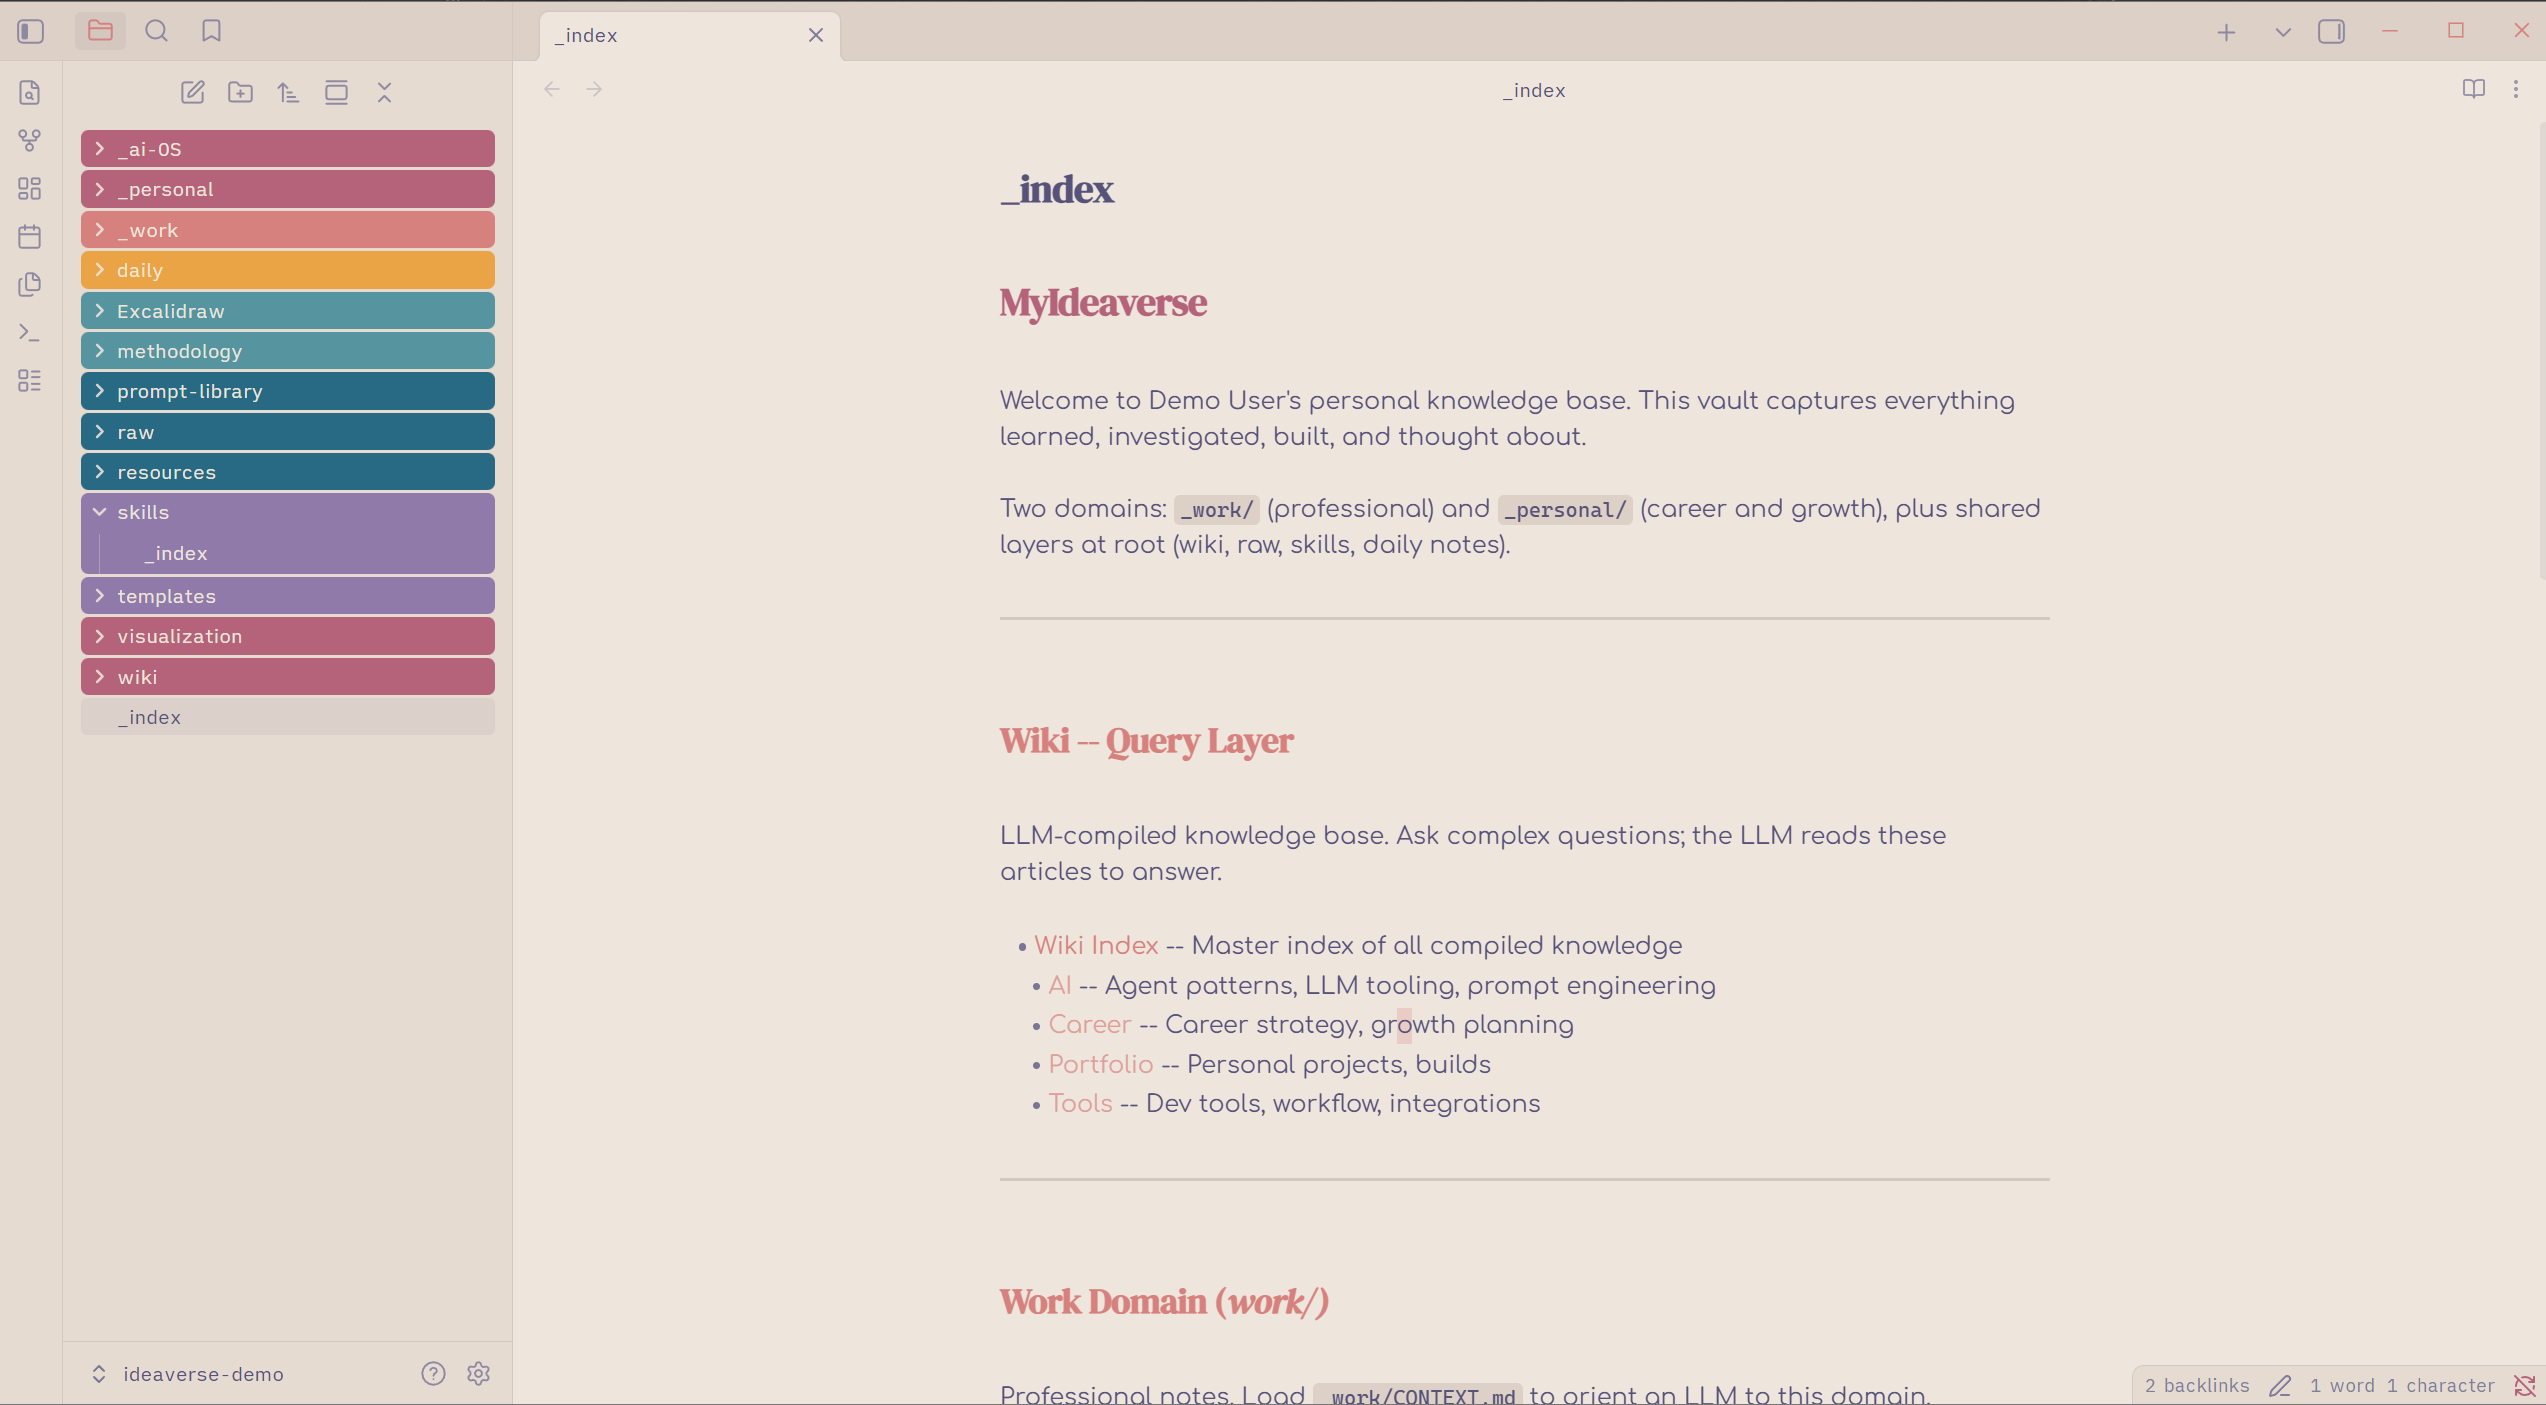
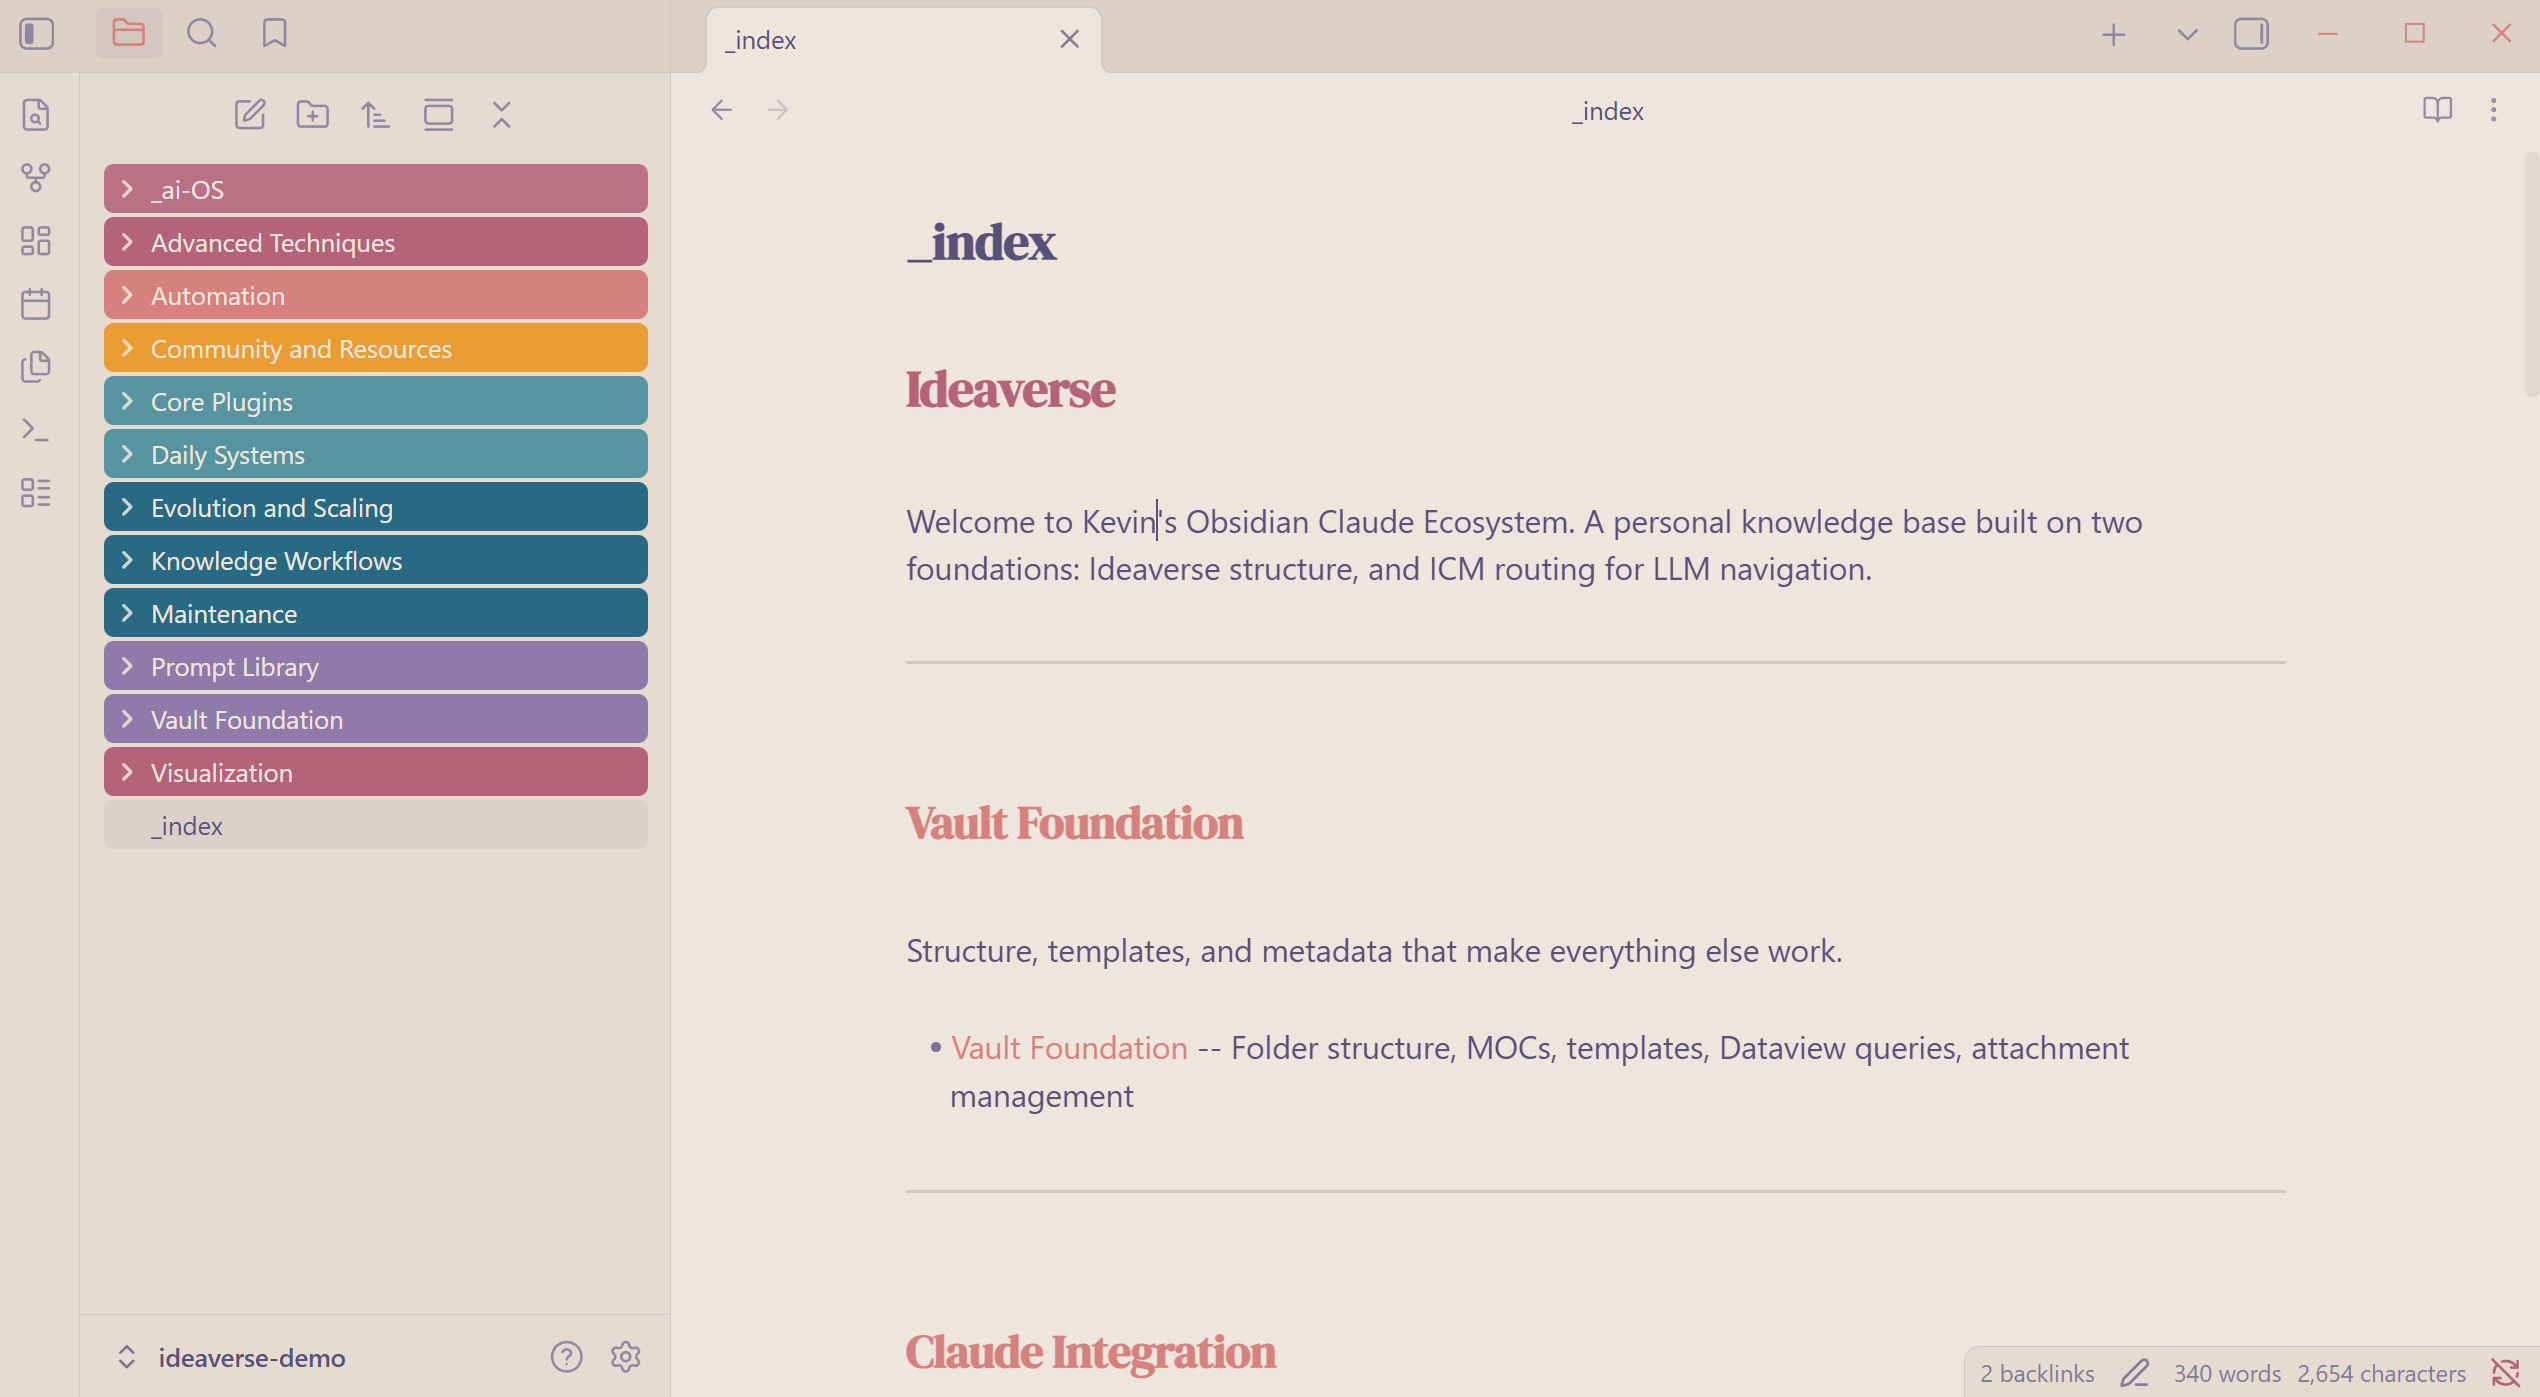
Update README with Kanika ecosystem folder structure
- Replace _work/_personal structure with 12 Kanika ecosystem sections
- Rename Claude Integration to _ai-OS in tree diagram
- Credit Kanika's taxonomy, ICM routing, and Nick Milo's Ideaverse
- Add attribution links to solution bullets and CLI section

new images

diff --git a/README.md b/README.md
@@ -10,9 +10,11 @@ Bootstrap an LLM-ready Obsidian vault with structured routing, identity dossier,
 **The problem:** Every new Obsidian vault starts as an empty folder. You spend hours configuring themes, installing plugins, creating folder structures, and figuring out how to make AI tools understand your vault. Then you do it again on your next machine.
 
 **The solution:** A single command (or Claude skill) that scaffolds a complete vault with:
-- ICM routing files (`_index.md`, `CONTEXT.md`) so any LLM can navigate your vault instantly
+- 12 ecosystem sections based on [Kanika's Obsidian Claude Ecosystem](https://x.com/KanikaBK/status/2043698988613050447) taxonomy
+- ICM routing files (`_index.md`) so any LLM can navigate your vault instantly
 - A canonical identity file (`me.md`) that tells AI tools who you are, how you think, and how to work with you
-- A curated theme + font stack that's readable and visually distinct
+- Nick Milo's Ideaverse concepts: Maps of Content, evergreen notes, literature notes
+- A curated theme + font stack (AnuPpuccin + Comfortaa + DM Serif Display)
 - 11 community plugins pre-configured for knowledge management
 - A daily note workflow organized by date folders
 
@@ -34,6 +36,8 @@ ideaverse-setup ~/Documents/MyIdeaverse/Vault --user "Your Name" --no-fonts
 ```
 
 Then fill in `_ai-OS/me.md` using the [interview guide](docs/interview-guide.md).
+
+The vault structure is based on [Kanika's Obsidian Claude Ecosystem](https://x.com/KanikaBK/status/2043698988613050447), enhanced with [ICM routing](https://github.com/ktncodes/icm-template) and [Nick Milo's Ideaverse](https://www.linkingyourthinking.com/) concepts.
 
 ### Path 2: Claude Code Skill (AI-assisted)
 
@@ -57,47 +61,92 @@ The skill walks you through everything interactively, including a 3-round identi
 
 ```
 YourVault/
-├── _index.md                 # LLM routing -- vault homepage
-├── _ai-OS/
-│   └── me.md                 # Identity dossier (who you are, how to work with you)
-├── _work/                    # Professional domain
-│   ├── CONTEXT.md
-│   ├── bugs/
-│   ├── features/
-│   ├── product/
-│   └── reference/
-├── _personal/                # Growth domain
-│   ├── CONTEXT.md
-│   ├── career/
-│   ├── learning/
-│   └── portfolio/
-├── wiki/                     # LLM-compiled knowledge base
+├── _index.md                         # LLM routing -- vault homepage
+├── _ai-OS/                           # Claude integration + identity
 │   ├── _index.md
-│   ├── ai/
-│   ├── career/
-│   ├── portfolio/
-│   └── tools/
-├── raw/                      # Ingestion queue
+│   ├── me.md                         # Identity dossier (who you are, how to work with you)
+│   ├── Commands/                     # Custom slash commands
+│   ├── Context Loading Strategies/
+│   ├── MCP Tools and Skills/
+│   └── Session Memory/               # Structured logs across conversations
+├── Vault Foundation/                 # Structure, MOCs, templates, metadata
 │   ├── _index.md
-│   ├── web-clips/
-│   ├── youtube/
-│   └── papers/
-├── daily/                    # Date-folder daily notes
-│   └── _index.md
-├── skills/                   # Claude skill vault backups
-│   └── _index.md
-├── methodology/
-├── prompt-library/
-├── templates/
-│   └── daily-note-template.md
-├── resources/
-├── visualization/
-├── Excalidraw/
+│   ├── Folder Structure/
+│   ├── MOCs and Hub Notes/           # Maps of Content (Nick Milo pattern)
+│   ├── Templates System/
+│   ├── Metadata and Dataview/
+│   └── Attachment Management/
+├── Knowledge Workflows/              # Capture > Process > Connect pipeline
+│   ├── _index.md
+│   ├── Capture Process Connect/
+│   ├── Literature Notes/             # One note per source
+│   ├── Evergreen Notes/              # Atomic, linked concept notes
+│   ├── Project Management/
+│   └── Research and Synthesis/
+├── Prompt Library/                   # Reusable prompts by purpose
+│   ├── _index.md
+│   ├── Thinking Tools/               # /trace, /challenge, /steelman
+│   ├── Note Processing/
+│   ├── Idea Generation/
+│   ├── Reflection and Synthesis/
+│   └── Custom Slash Commands/
+├── Daily Systems/                    # Periodic notes and tracking
+│   ├── _index.md
+│   ├── Daily Notes/                  # Date-folder pattern (YYYY-MM-DD/)
+│   ├── Weekly Reviews/
+│   ├── Monthly Reviews/
+│   ├── Task Management/
+│   ├── Journaling/
+│   └── Habit Tracking/
+├── Automation/                       # Claude skills + maintenance scripts
+│   ├── _index.md
+│   ├── Custom Claude Skills/
+│   ├── Auto-Tagging and Linking/
+│   ├── Summary Generation/
+│   ├── Daily Review Automation/
+│   └── Vault Maintenance Scripts/
+├── Core Plugins/                     # Plugin documentation and config
+│   ├── Terminal and Claude Code/
+│   ├── Dataview and Queries/
+│   ├── Templater and QuickAdd/
+│   ├── Periodic Notes/
+│   ├── Advanced URI and Canvas/
+│   └── Graph View Enhancers/
+├── Advanced Techniques/              # Agentic and multi-step patterns
+│   ├── _index.md
+│   ├── Agentic Note-Taking/
+│   ├── Multi-Step Reasoning/
+│   ├── Cross-Note Analysis/
+│   ├── Custom AI Agents/
+│   └── Vault-as-Context Engineering/
+├── Visualization/                    # Maps, graphs, dashboards
+│   ├── Graph View/
+│   ├── Canvas Workspaces/
+│   ├── Knowledge Maps/
+│   ├── Progress Dashboards/
+│   └── Excalidraw/
+├── Maintenance/                      # Vault health and optimization
+│   ├── _index.md
+│   ├── Vault Health Checks/
+│   ├── Dead Link Cleanup/
+│   ├── Performance Tuning/
+│   ├── Backup and Git Sync/
+│   └── Claude Context Optimization/
+├── Community and Resources/          # Curated recommendations
+│   ├── Plugin Recommendations/
+│   ├── Best Practices/
+│   ├── Shared Vault Templates/
+│   └── Learning Resources/
+├── Evolution and Scaling/            # Growing the system
+│   ├── New Skill Development/
+│   ├── Multi-Vault Management/
+│   ├── Team Collaboration/
+│   └── Long-term Knowledge Evolution/
 └── .obsidian/
-    ├── appearance.json       # AnuPpuccin + font config
+    ├── appearance.json               # AnuPpuccin + font config
     ├── community-plugins.json
     └── snippets/
-        └── heading-font.css  # DM Serif Display headings
+        └── heading-font.css          # DM Serif Display headings
 ```
 
 ## The Identity File (me.md)